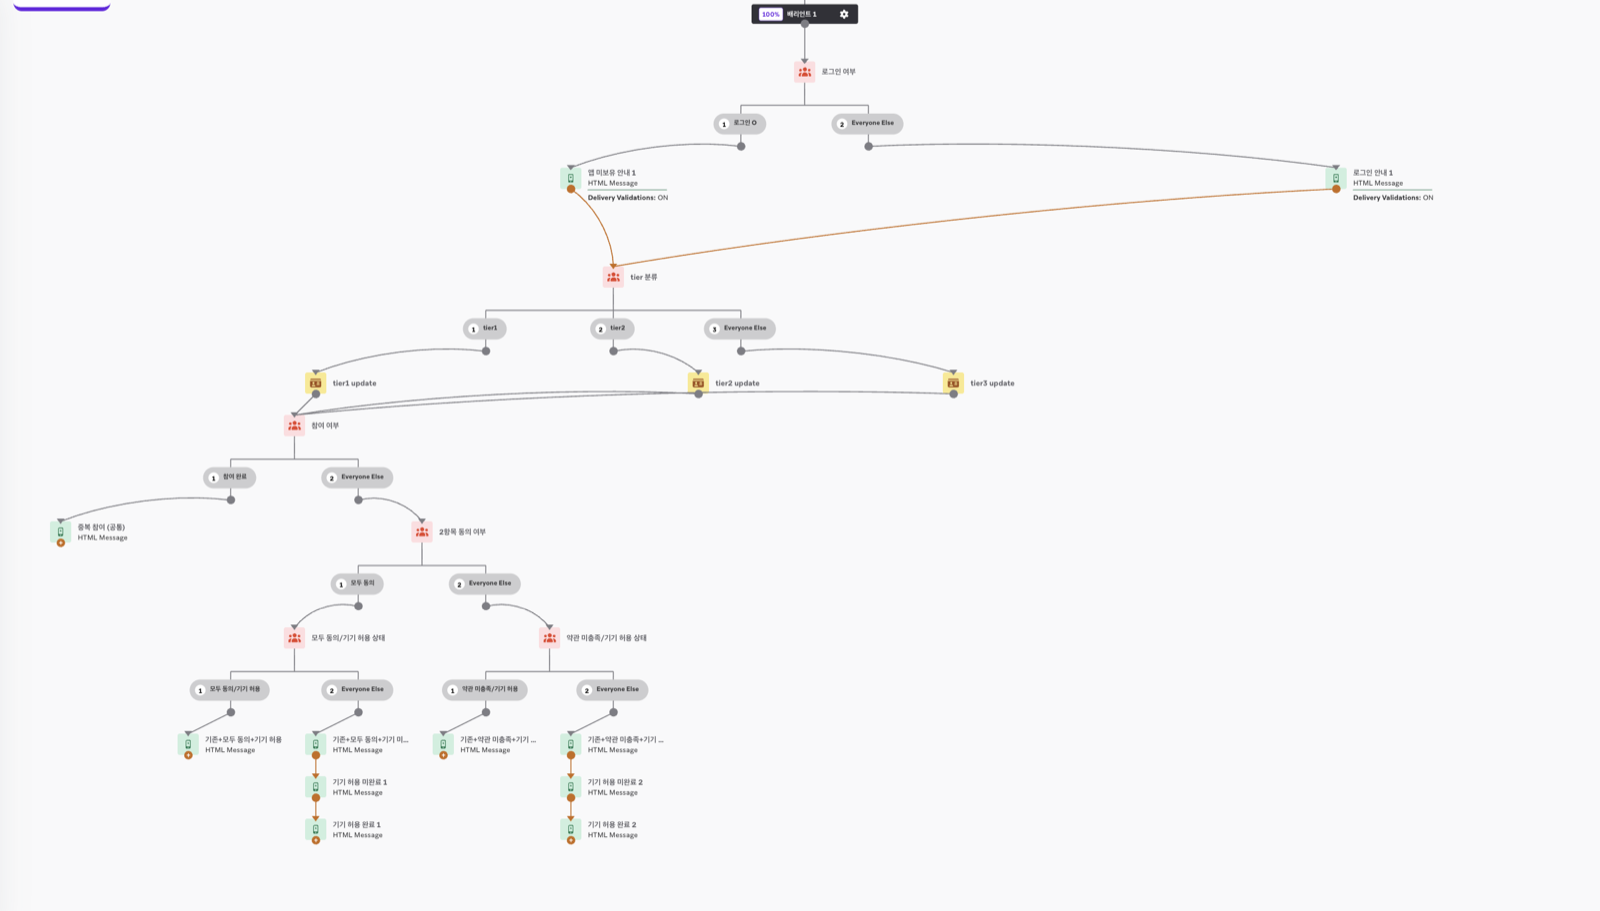
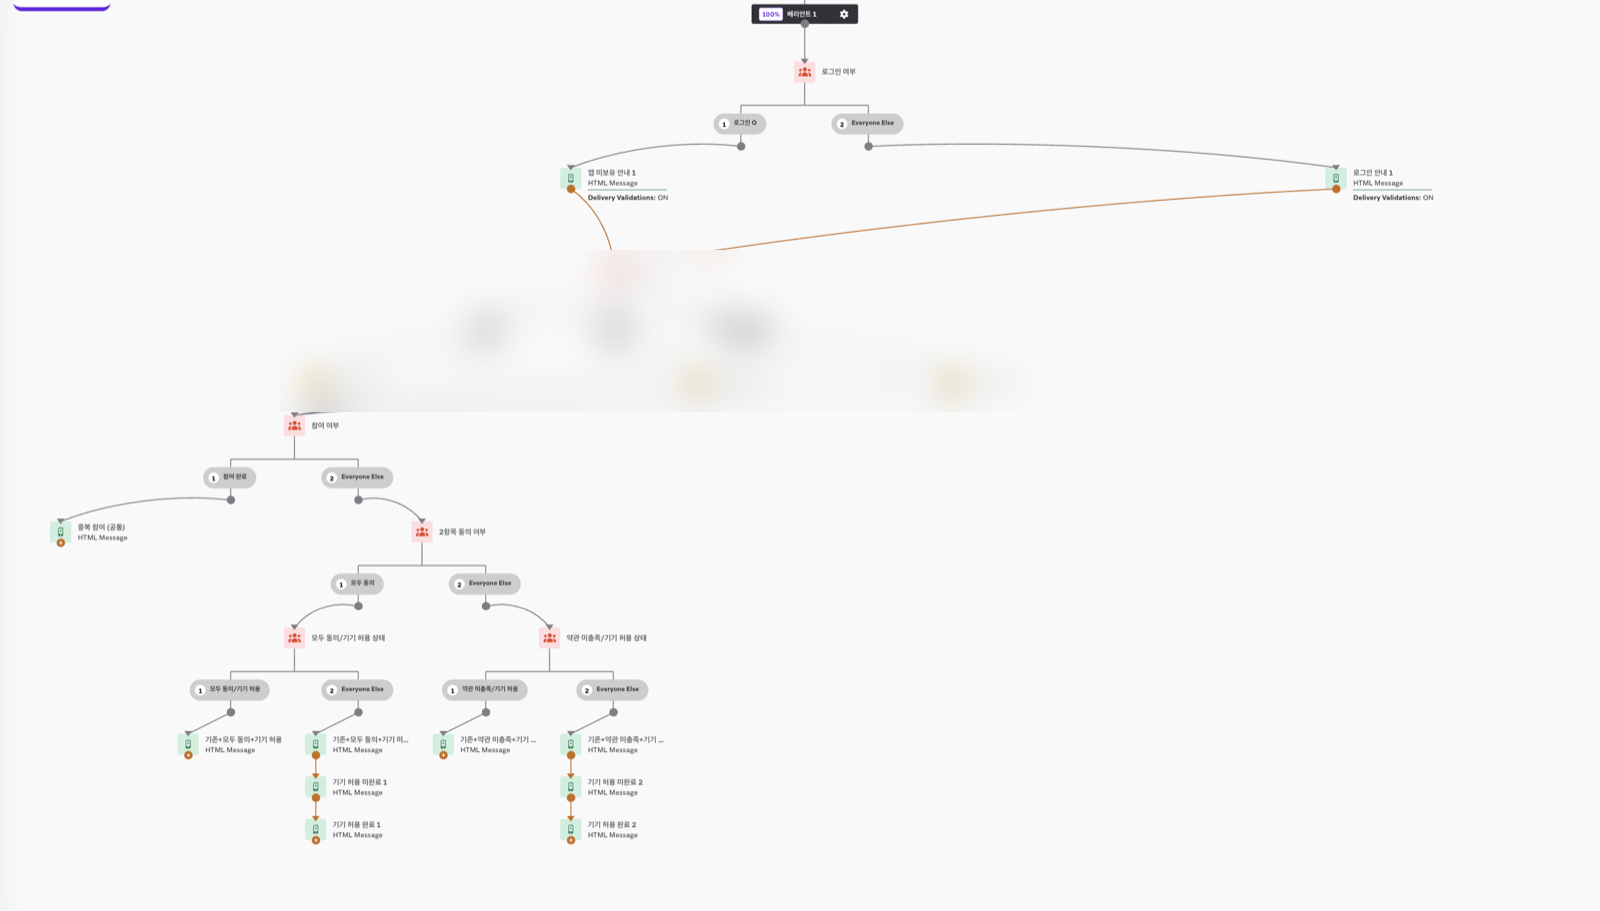
fix(iam-modal): redact tier classification from Canvas screenshot (blur band) + cache-bust
- canvas.png: blur tier 분류 / tier1-3 / tier update nodes (confidential segmentation)
- img src ?v=2 to bust cached tier-exposed version (KO+EN)

diff --git a/articles/braze/iam-modal/en/index.html b/articles/braze/iam-modal/en/index.html
@@ -650,7 +650,7 @@ function logParticipation(prize){
 </svg>
 <figcaption>Canvas branching diagram — login/app-ownership → participation status → variant sent per consent×device-allow combination.</figcaption></figure>
   <figure class="img">
-    <a href="../artifacts/canvas.png" target="_blank" rel="noopener"><img src="../artifacts/canvas.png" alt="The actual Braze Canvas — login, tier, participation, consent/device-allow branching" loading="lazy"/></a>
+    <a href="../artifacts/canvas.png?v=2" target="_blank" rel="noopener"><img src="../artifacts/canvas.png?v=2" alt="The actual Braze Canvas — login, tier, participation, consent/device-allow branching" loading="lazy"/></a>
     <figcaption>The actual Braze Canvas — login status → tier classification → participation status → HTML messages branching by the consent × device-permission combination (Korean console UI). Click to open full size.</figcaption>
   </figure>
 

diff --git a/articles/braze/iam-modal/index.html b/articles/braze/iam-modal/index.html
@@ -650,7 +650,7 @@ function logParticipation(prize){
 </svg>
 <figcaption>Canvas 분기도 — 로그인/앱 보유 → 참여 여부 → 동의×기기 허용 조합별 변형 발송.</figcaption></figure>
   <figure class="img">
-    <a href="artifacts/canvas.png" target="_blank" rel="noopener"><img src="artifacts/canvas.png" alt="실제 Braze Canvas — 로그인 여부·tier 분류·참여 여부·동의/기기 허용 조합 분기" loading="lazy"/></a>
+    <a href="artifacts/canvas.png?v=2" target="_blank" rel="noopener"><img src="artifacts/canvas.png?v=2" alt="실제 Braze Canvas — 로그인 여부·tier 분류·참여 여부·동의/기기 허용 조합 분기" loading="lazy"/></a>
     <figcaption>실제 Braze Canvas 화면 — 로그인 여부 → tier 분류 → 참여 여부 → 2항목 동의 × 기기 허용 상태 조합별로 HTML 메시지가 분기된다. 클릭하면 원본 크기로 열린다.</figcaption>
   </figure>
 